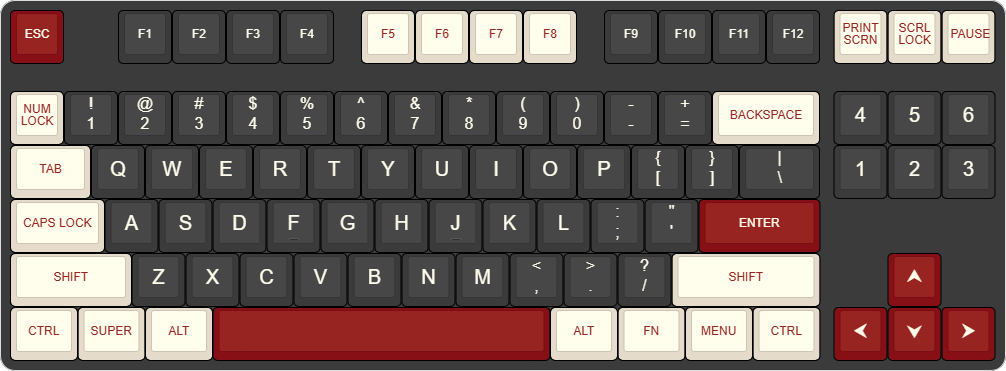
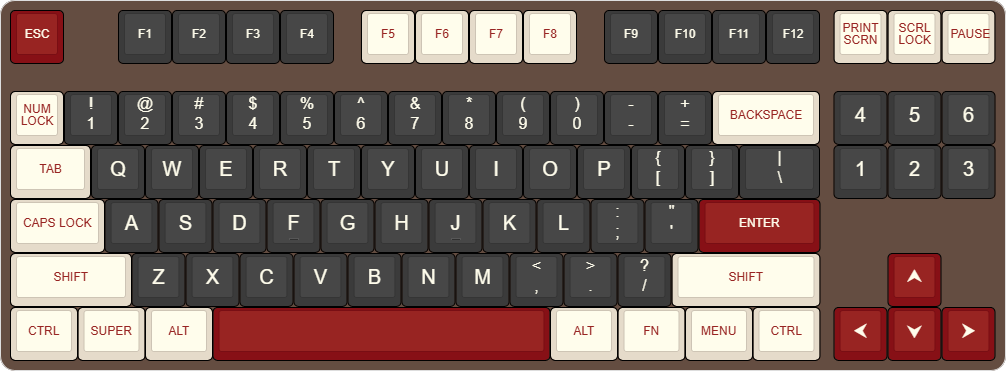
Update README images for new case

Changed region(s): [[0.0, 0.0, 1.0, 1.0]]

diff --git a/CHANGELOG.md b/CHANGELOG.md
@@ -11,6 +11,10 @@ and this project adheres to [Semantic Versioning](https://semver.org/spec/v2.0.0
 
 - Troubleshooting section to README
 
+### Changed
+
+- README images to have the new bronze case 
+
 ## [3.0.1] - 2025-01-26
 
 ### Added
